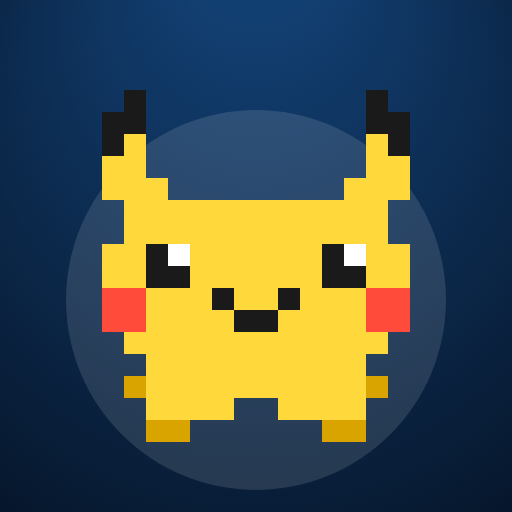
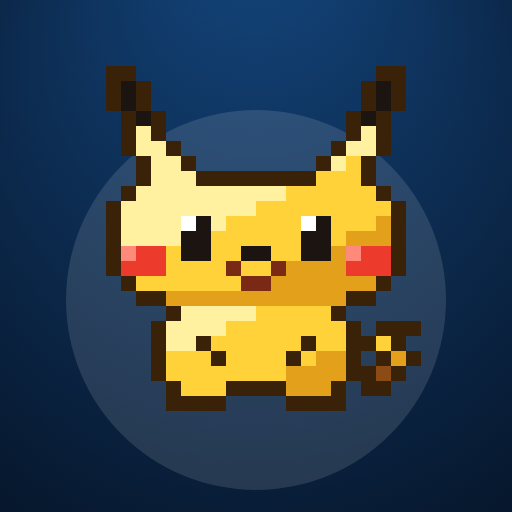
v3: 50 levels, new difficulty metric, new sprite, faster slides

Changed region(s): [[0.1875, 0.125, 0.8438, 0.875]]

diff --git a/index.html b/index.html
@@ -1,11 +1,11 @@
 <!doctype html><html lang="en"><head><meta charset="utf-8">
 <meta name="viewport" content="width=device-width,initial-scale=1,maximum-scale=1,user-scalable=no,viewport-fit=cover">
-<title>Glacier Run · 100 Ice Puzzles</title>
-<meta name="description" content="100 brutal sliding ice puzzles. Slide until you hit something. Beat par.">
-<meta property="og:title" content="Glacier Run · 100 Ice Puzzles"><meta property="og:description" content="Slide until you hit something. 100 ice-cave puzzles that get brutally hard. Free, in your browser.">
+<title>Glacier Run · 50 Ice Puzzles</title>
+<meta name="description" content="50 brutal sliding ice puzzles. Slide until you hit something. Beat par.">
+<meta property="og:title" content="Glacier Run · 50 Ice Puzzles"><meta property="og:description" content="Slide until you hit something. 50 ice-cave puzzles that get brutally hard. Free, in your browser.">
 <meta property="og:image" content="https://cyberkid2077.github.io/glacier-run/og.png?v=2"><meta property="og:image:width" content="1200"><meta property="og:image:height" content="630">
 <meta property="og:url" content="https://cyberkid2077.github.io/glacier-run/"><meta property="og:type" content="website">
-<meta name="twitter:card" content="summary_large_image"><meta name="twitter:title" content="Glacier Run · 100 Ice Puzzles"><meta name="twitter:description" content="Slide until you hit something. 100 ice-cave puzzles that get brutally hard."><meta name="twitter:image" content="https://cyberkid2077.github.io/glacier-run/og.png?v=2">
+<meta name="twitter:card" content="summary_large_image"><meta name="twitter:title" content="Glacier Run · 50 Ice Puzzles"><meta name="twitter:description" content="Slide until you hit something. 50 ice-cave puzzles that get brutally hard."><meta name="twitter:image" content="https://cyberkid2077.github.io/glacier-run/og.png?v=2">
 <link rel="icon" href="icon.png?v=2"><link rel="apple-touch-icon" href="icon.png?v=2"><meta name="theme-color" content="#06121f">
 <style>
 *{box-sizing:border-box;-webkit-tap-highlight-color:transparent;-webkit-user-select:none;user-select:none}
@@ -42,7 +42,7 @@ footer{margin-top:auto;padding-top:14px;text-align:center;font-size:11px;color:#
 </style></head><body>
 <canvas id="bg"></canvas>
 <div class="wrap" id="menu"><div style="display:flex;justify-content:flex-end"><button class="btn sq" id="mute1">🔊</button></div>
-<h1>GLACIER RUN</h1><div class="sub">100 ice puzzles · slide until you hit something</div>
+<h1>GLACIER RUN</h1><div class="sub">50 ice puzzles · slide until you hit something</div>
 <div class="sub" id="tot"></div><div id="grid"></div>
 <footer>Unofficial fan game. Pikachu and Pokémon are trademarks of Nintendo, Game Freak, and The Pokémon Company. Not affiliated or endorsed. Free and non-commercial.<br>No tracking, no ads. Progress is saved on this device.</footer></div>
 <div class="wrap hide" id="game">
@@ -96,7 +96,7 @@ function solve(lv,cap=150000){
   return null;}
 
 
-const LEVELS=[{"w":8,"h":9,"g":"..####..#..#.......#..#........#.##..#..#...#...#.##......#...#.E#..#..#","s":[7,2],"b":[],"par":11},{"w":8,"h":9,"g":".#....#....#......#..#..###.....#..#...#....#....E#...#....#...##..##...","s":[6,8],"b":[],"par":11},{"w":8,"h":9,"g":"#...#..#.#....#E#..#.#....#.#..#....#.#..#..#..##..#.#..#..........#..##","s":[4,8],"b":[],"par":12},{"w":8,"h":9,"g":"#..#...#.#......._..#...#..#..#.E.#....#.._.#...#.##.#..#.....##...#...#","s":[4,1],"b":[],"par":14},{"w":8,"h":9,"g":"..#....#.#...##E...#.#....##.#_#....##...##.._....#..#.##..##......#..##","s":[0,3],"b":[],"par":14},{"w":8,"h":9,"g":".#.E##..#..##.......#.##..#.#.....#._......##...#...#..#...#.#....#.#...","s":[7,4],"b":[],"par":14},{"w":8,"h":9,"g":"#......#....##....##....E#......#.##..##..#.#....#.....#...#..##........","s":[1,8],"b":[],"par":15},{"w":8,"h":9,"g":"#....#.#.._..#...##.......E#..#..#..#..#.##_.###...#..###.#.....#._.#._.","s":[1,7],"b":[],"par":15},{"w":9,"h":10,"g":"###.#.#..#...#....E..#.....##._.###_..###.#.....##...##.....##.....#......#.....##....#...","s":[5,5],"b":[],"par":15},{"w":9,"h":9,"g":"..##.._.##E...##...#####..#.#..#..#..#....#..._.##.#...##.....#.....#.....#...##.","s":[0,5],"b":[],"par":15},{"w":8,"h":9,"g":"..#.####..#....##....#.....#..#..#..#..#..##.#..#..##...#.E##.#....#.##.","s":[7,5],"b":[],"par":16},{"w":9,"h":10,"g":".....##....#......##.........#....###.#.#..#....#...#._#...#.....#.###..#.._.#.#.#..#..E##","s":[5,1],"b":[],"par":16},{"w":9,"h":9,"g":"....###..__.#E...#..........#.###_#...#..#..#...#..#.....##..#.#.._##...#.#..#..#","s":[3,4],"b":[],"par":16},{"w":9,"h":10,"g":".####..##.#..#...#.#.._.#_#...####..._###.##E......###...#..##..#...#.....#.....#..#...#.#","s":[1,6],"b":[],"par":16},{"w":8,"h":9,"g":"#...........#....._.......#....#...#.#..#.....#E.##...........#...#..###","s":[0,8],"b":[],"par":17},{"w":9,"h":10,"g":"......#...x.Ex.#......_...##....#.#.x.#.x.x.....#._.#....__....#.....x.....###..#..#.#....","s":[1,2],"b":[],"par":17},{"w":9,"h":9,"g":"x.#.x.....#.....##....x..#...E#.x__...#.#..#x..##.....#.###....#x._..#..#..#....#","s":[1,8],"b":[],"par":17},{"w":9,"h":10,"g":"x..#.#..x.#.....#x..##.._.x..##....#_.......#..##........##x#x.#..##..###..##.....#....##E","s":[0,6],"b":[],"par":17},{"w":9,"h":10,"g":"..##...##.....x.#..##..##.x._...._..#..#.Ex.#.#...x...x..._....##..........#..#....#.x####","s":[7,8],"b":[],"par":18},{"w":9,"h":10,"g":"#....x..#..#.#..##x.#..##.x....E#.....#...#x.....#.x._#.##....x....##..#..#.#..#...#...###","s":[0,5],"b":[],"par":18},{"w":9,"h":9,"g":"..x.##.#.##.x..#..#...x...#..#...#...#..x..x....#....#..........x...#E...###..#..","s":[7,8],"b":[],"par":18},{"w":8,"h":9,"g":"#..#.#....._...._..#..##....#.#.###.#....#E..#.##...#..#...#._##..##.#..","s":[4,8],"b":[],"par":19},{"w":9,"h":10,"g":"x..#...x##....#x.x...._..#.....#....#_##..x....##.__.......x#E#.......#.#.#.##.....#..##..","s":[1,7],"b":[],"par":19},{"w":10,"h":11,"g":".##....##..x..##.......#.....##.#_..#..........#x......#..#...x...#...#..#.####.#_...##..#x.E#....x...#x....#.","s":[8,6],"b":[],"par":19},{"w":10,"h":11,"g":"...##......x...#._.#......#...##......#.#.._#.#.#_...xx#.##......###..#_#...E#..........x#x._.x.#.###........#","s":[3,6],"b":[],"par":19},{"w":8,"h":9,"g":"...##....#..#.._.##........##..#.#..##.._..#_..#.#_#E..#....#....#...#..","s":[3,4],"b":[],"par":20},{"w":10,"h":10,"g":"..#E..###....##_#.##.#..#x##....#x.......#.......#xx.._x...............###...x#...#.#..#..#...#..#..","s":[0,1],"b":[],"par":20},{"w":10,"h":11,"g":".....#._...#....###.#...#x..E....#_........#.#._#.......#.##..#.......#x...x#....x.x.x..............#..###..#.","s":[3,6],"b":[],"par":20},{"w":10,"h":11,"g":"..#####...x._..###.#x.x..###.#.....###.x......##...#.x.##....#...E###.##.....#...#.x.._#.#.##....#....._......","s":[4,9],"b":[],"par":20},{"w":10,"h":10,"g":"#x...._..#..#..x.#x.x....##.##....#..x.#.#.._.....#...#........#..E..x#.........#.##.##_#....####...","s":[9,4],"b":[],"par":21},{"w":10,"h":11,"g":"..#.#........##..x.#.###.x............_.#.x..###...x..#E#..#.x....#.x......#.##.._..._...#....####...#._..#...","s":[7,10],"b":[],"par":21},{"w":10,"h":10,"g":".....##...#x#....#....###....#.x#x...x.......x......#...._...#.##_#_x..E._....#_..........##.....#..","s":[9,4],"b":[],"par":21},{"w":10,"h":11,"g":"..#......#...#..E....#.......x......#..##..x.x##.#....x##..#...#..._...##..#....#...x.....#...#.....x.##...##.","s":[8,8],"b":[],"par":22},{"w":10,"h":11,"g":"##....#..#.#.#._..x....._#...##.x..#.#.._.#.#......##..#####_##.....#._x##x........x#.x..#..#E#..#.....#.##...","s":[7,4],"b":[],"par":22},{"w":10,"h":10,"g":"..###...##.x._.#.#x#.v........_#_#...#.#.#..#..x......###.....#.<....#..#..E.x#...._.x..x#...##....#","s":[9,2],"b":[],"par":22},{"w":10,"h":10,"g":".x.#....#x...#.#>#..#x.....#.##...........#...x.....###..._._#...#.E##..##x....#_#..x..#.....#...#..","s":[6,8],"b":[],"par":23},{"w":11,"h":11,"g":".#.#.####E##...#..#..#x..#...#.._.#.x.#...#..x#.x#..##.v..<.#.#.#...#_x..<#.........#x.#..#.......v#..#.....#.##...#..#..","s":[1,1],"b":[],"par":23},{"w":11,"h":12,"g":"#..###.######.............###...#...#.#.#......x..x..#....#E.#x..x..#.#.#.#..#_.#....###....#...#.#x.##.>.#x...#...............###.#","s":[10,10],"b":[],"par":23},{"w":11,"h":11,"g":"..........#._..x..#...####..#x#..#.##.#...#..#.#....#._.x.....xE#.._#..##.........##.#...>#.x.#.#..#..#._....#...._.#.x..","s":[4,4],"b":[],"par":24},{"w":11,"h":12,"g":"#....#....#...#.#...>#...x#..v....#x_.#.x#.......##....#.#.x...#_...#.#.##....#..E..#.........#._#.#.x.##..#.....#.#.#.....x__..#...","s":[10,11],"b":[],"par":24},{"w":11,"h":12,"g":"..#^#...._...._#..#E#...#.#..#.#>.._...##....x#.##..###..#.x##_.#......##...####.>###x..#.........#..x#....#....#.x.x......#....#...","s":[5,8],"b":[],"par":25},{"w":11,"h":11,"g":".##.###.##x...#.##.#..###...#.x...#..vx...#_....#._x#._....._###....E.#..###...#..#...#<#.#..x..._.x....._.#.#...<.#.#...","s":[0,4],"b":[],"par":25},{"w":11,"h":12,"g":".#..#....#......x..#..x.........#.x..#...._....#....vx#.....#.#...#E....#...#>......##_#.#...x.........##.#.#....#......#x...#....#.","s":[10,5],"b":[],"par":25},{"w":11,"h":12,"g":".###..#...##...##..#.##....#..x#......>.#_...##..#.#...x.....>....#..#_..x.#..#E..###<.###.#.__x...#..........x.#......#.x.#.....###","s":[5,5],"b":[],"par":26},{"w":11,"h":11,"g":"x###.###E_......##.##...##.._###_#..##.#.#x_..###..x....#...#..v##...##.x..x#....#...###..#.......##.#..#.v....x.##..#...","s":[0,1],"b":[],"par":26},{"w":11,"h":11,"g":"#_..xx.#.^#..##..#_..#........##......x#_.........#.E.#...x.....>........._..>..x.._..x.#..........#...#...#<.##.#..#.#..","s":[5,10],"b":[],"par":26},{"w":11,"h":12,"g":".._............###..<.##._......#...#E.....#...<#.#.x....#....x...xx..#...#...#.....#..x......#.x#.#.....#..#.._.....#.....#..#..#..","s":[10,6],"b":[],"par":27},{"w":12,"h":13,"g":".#.....#...#....x...#......#....x.##...##.#..#x#...##.#.....#...v._._..#.....##........._#.........#......_.x.#....#.E...........x.....#..#....####..v.#.x#.","s":[10,10],"b":[],"par":27},{"w":12,"h":12,"g":"...#......x...._.#v......###..x.#x....#....#...#....#.....^...###.v........##..#.#..#_..#..##..#._x.#E.###..#.......#..#........x>.#..........##","s":[6,10],"b":[[8,0]],"par":27},{"w":12,"h":13,"g":"x#_.#x..#....#..#...#.......^.#.E..##...x#....x...#.#.......#....x.###...#..#...........#....##..#...._.............#.#_#....#....x...#.#.#....#.##..#...#.#","s":[9,6],"b":[[10,8]],"par":28},{"w":12,"h":12,"g":"#..##.....#...##..#.#.....x.#x..#.........#..x.#.##..........#.....x..#.._..##....#.#.#...#E.^.............x..x..#.....#...#...#...##.###.#...#.","s":[9,5],"b":[[8,4]],"par":28},{"w":12,"h":12,"g":"#.....#.....#x.#..^..#......#..#.>x......x.....#....###.v...x.#.E......#..#.#......#...x#..#.#..#.#..##._...._..#......#..#...##..#.#..#_.x#....","s":[10,11],"b":[[9,5]],"par":28},{"w":12,"h":13,"g":"....#..#..##.x...._x>...#..#.....x....#...#.#......_.........#...#......#........#...E#...##.#..##..^..##x.#...x.....x.#......_#.#..............#...##._._..","s":[11,1],"b":[[4,9]],"par":28},{"w":11,"h":11,"g":"..#......._#.........#.#.#.v#.#..##.....##.#.#.#.....#....v...##..x....#E.#x..#.##.x....v#.##..##..._..#.#......#.....#..","s":[7,4],"b":[],"par":29},{"w":12,"h":12,"g":"..x....#.........#._..#..##._.#...#.......##..#..#.#...........#.....#............###E.##.x........x._x.^......x.#..#..#......##x_......#.#....#","s":[3,3],"b":[[8,2]],"par":29},{"w":12,"h":12,"g":".....#.#..#......._...x......E...#..._...>........#x........................x.............#......._....x_.##......#..##.x.##..._..x..##.#.......","s":[11,1],"b":[[5,10]],"par":29},{"w":12,"h":13,"g":"....#.....##..x#..#x#_x....#.##..........x.#...#.x_..#..##.<..........#.._..>#....E.............#......._..>.......##x..#...#......^#....#....#....#....#.#.","s":[3,6],"b":[[10,8]],"par":29},{"w":12,"h":13,"g":"E#..#...##...#.x............##..###..#.>...#.##...#..#x....##...#..##...##....#....####._.#..<..._.x.._v.>._#..#...##x_.#..#...##...........#..#....._..x.x.","s":[9,11],"b":[[8,7]],"par":30},{"w":12,"h":12,"g":"..x..#.#.x.x.#.#.........#_.....#...#...#.##.#.##..#..#..#.....E.#.__.#....#....x.>..#..x.........#...x..#...#....#...#...#.<.##<....#.#####..#.","s":[9,5],"b":[[5,8]],"par":30},{"w":12,"h":13,"g":"<....#E#....#...#.....x...#.............#.#...#...#....##.x#.#..x.#..###......#................._#.........#.##..#....._.x...............#....x.##..#.#..##x","s":[10,0],"b":[[7,2]],"par":30},{"w":13,"h":14,"g":"...#...x#...#..#..#.#....##....#...#.......#.#.....x...#.#...#.......##....#...#.###...E.#..........###....##.^..#.#_.#_......#...#...........#._..#....#.#_.........x...xx#.x..#.#..#","s":[1,5],"b":[[6,9]],"par":31},{"w":13,"h":14,"g":"..xx##....###.#..#.........#..._.#..##.#....#...#....#.v.x...#...#.##x###.##E.#.##._.#.#...##.x##._...._.#....._#..#.##.##....#...#........#.#.##.###.....##...##..#....#....#.....x_.","s":[5,10],"b":[[8,6]],"par":31},{"w":13,"h":14,"g":"#.#.....x#...x....._...##..#...........>#...##_......#......#.x.x###...#............#...E....##....#....#x.#......#...#..##.....#......#.......#........_.#...##.x.....#.....#.....#..","s":[5,13],"b":[[9,3]],"par":31},{"w":13,"h":13,"g":"..#..^..x.#.........v#.............#.#..#x.E....##.._...#.#.............#...x.........#_...##.....x#.....#...._.#.....#....#..............##.......x#..#.x..##..#....#._.","s":[11,10],"b":[[3,5]],"par":32},{"w":13,"h":13,"g":"........#._.#._...##.....#..#..#......x##.#....._##..............x.#####.#.##...._..x^......#....__#.....#...##...x..#.x........#......#E.x..##...##.#####......>.#..#..#","s":[0,4],"b":[[9,6]],"par":32},{"w":13,"h":14,"g":"....#....#E##..#........#...#.#..#...#...##.....##..##..##..#....#....#............_.#....#....x......x#..#.....v....###.....x#.###...#....#.....##..#....#...#.....x...#..x........x.","s":[1,5],"b":[[5,9]],"par":32},{"w":13,"h":14,"g":"#.#.##.....#..x......._.x.>.###.#..#.......................E...##_.##<......#............>..>......._.#...#....##....x#..x#...##....x#..#..#.._##.....#.#.....#....x.................#","s":[12,6],"b":[[11,3]],"par":33},{"w":13,"h":14,"g":".#...###.#....#.#...#.....x......#x.#..#...#..#......x.####......_#..#....#.#...#..#..x..#.#..#...#..#..##..###....E..#..#...>.##..x..###....<.#.#...#.##...._<.x..#........#._..._..#","s":[9,3],"b":[[12,7],[8,10]],"par":33},{"w":13,"h":14,"g":"#.#.#....###.#...^.x#...###....#.#..#.#....##.##..#..#..#.#x..x....#......#.....###.......##...#.###.#.....#.#.#.....##x._>_...x##.###....#.<...x.........E...#...........##_..^.##...","s":[1,12],"b":[[8,12],[6,11]],"par":33},{"w":13,"h":13,"g":"....#..#...x..#...#..x#...#..#.#..#.##....###........#.##...##......#..._.#..#...........#.x..##......#..#........_#..__.#E#......#.._....x......#..##.x._....#...v.....#","s":[8,3],"b":[[8,7],[7,11]],"par":34},{"w":13,"h":14,"g":"..#x..>.##...#..##...x.......#..#......._........#........##.._.#.......E.x#.....#.^.#..#.#.#...^#.#.#_.##<#.###..x...#....#.._.......#_.###...#.#.#....#...#....x#....#......#..#..#.","s":[11,6],"b":[[7,3],[8,2]],"par":34},{"w":13,"h":14,"g":"###.###........#.#.....##.###...#.#_#.....x..#_#...#............#x#........#......_...#...##..##..#.......x....#.###.......#.......#_#x#...#E#....v.^..#.......#.<.x.x.#......._.#....","s":[9,6],"b":[[2,11],[6,6]],"par":34},{"w":14,"h":14,"g":".....x...#..#.......>.#.x...#.#...__x#...#.#.#<x##......._...##.....#....#......x...#.##._....#.x....##.._............^.#.....E.#.#.####......#....#...#.#...##.#.......##....#....#......_..#....#.","s":[3,1],"b":[[1,11],[8,5]],"par":34},{"w":14,"h":14,"g":"..#.#..#...#.......#..v.x...........###.#.#....##.x....##.......x.#.#......#.....#x#......#.._...#...E...##...>#...##_#.......#.x##.#.#._..............x.^...##.#......#_......#.#...#..###..##....#","s":[10,12],"b":[[0,0],[4,6]],"par":35},{"w":14,"h":14,"g":"...#....#.#.#..#....x##..>#..#.#._......#............x#.#.......#.................#..####.....v...#..........#......#<.......x....#...x....##.#.....#.....#....#...#.............#.E.#..x.#.#....#.#","s":[4,3],"b":[[6,10],[6,11]],"par":35},{"w":14,"h":15,"g":"#x.._..^..#...##....#...E...#....>#.__..#...#....#.##......#...#.x###._#x#......x....##.........._.#...>##.#..#x##.#.......#........##.....###...#..^...#..#.#....#.......#.....##....#...##.......##...#....##..#","s":[2,7],"b":[[11,12],[4,6]],"par":36},{"w":14,"h":14,"g":"..#.#.x......#.#.....#........_...#...x.v.#.##..#..x#..............._..##.#......#...#..##......#...#^#..#._#._x#..#<.#.....#..._..#...##..........#.#......<...E.#.#..x##............#..x#.#.#.#..#","s":[10,10],"b":[[6,5],[8,0]],"par":36},{"w":14,"h":14,"g":"#.#.#....#...#...v..#v......##E.................#._x...#.#.#........#..#.#.#.......#...#.....#........#.._.#.x...####....#._...#.x..##.##..........#..##...#.....#xx#.....#..#....#.#.....#x..##....","s":[10,13],"b":[[5,8],[2,4]],"par":36},{"w":14,"h":14,"g":"##._........x##x....###..#..###......#....#..#..._..x....#.#.#...#..##......^.x...x...##............#.....#_#..##...##..#........_.###....#E..#......x####..#.........#.._#.#.#.#.._....#.........#.","s":[4,2],"b":[[4,5],[4,9]],"par":37},{"w":14,"h":14,"g":"...._.....#...x..#......#..>.##.........x#.#........#.#....#.....#.#..^..........##............^......#E..#..#....#.#x..#...#_.x..#..###...._..x.#._.....#...###x.###...#..#...#...#._.#.#.#....#...","s":[11,8],"b":[[8,3],[3,8]],"par":37},{"w":14,"h":14,"g":"###...#...#..##...##..........##........#.._.#..##.#.#.E..._..#..##..##.#.#..#.._..#....<.#.^#.#x#..##.......<#..........#x......##..#..#.#x###..................#...#....##.#x...#....x....#x#.#.#.","s":[4,0],"b":[[13,2],[3,5]],"par":37},{"w":14,"h":15,"g":"...#.....#.........#_x.....x.x.#.#.._...#..........#.......#x..#..#.................^.####.###....#.x..#_.._...#.##.#_..#...^..#.....##..##..#x......#..#<##.#.#.##.#....#.##.#.##...#.#>#....#.#._.#.....E...#..#","s":[0,0],"b":[[6,2],[12,7]],"par":38},{"w":14,"h":15,"g":".#..........##.......#...##...#..#.#........##....##>..##vx...#..#....E#x##..#.........v..#..x._#x.#..##....#.##............#.....##....###..##....#.....x#.......###>.#.#..#...###..#.#.#._..#.....##.x...#.#....","s":[7,8],"b":[[10,8],[5,8]],"par":38},{"w":14,"h":14,"g":"...#..x##......_..#...##.#####.....#.#..#....#...#.....#.#........#.x.##.#.##.#.......#.x..........###....#...#..####...##..<..#........##..#..._.E##.......#......##x.#.#.#..#.....x#..#..##.##..x.","s":[0,11],"b":[[6,3],[2,10]],"par":38},{"w":15,"h":15,"g":"..#.x.....x.......#.....##....#...................#.#.......#....#.....x.##....._..#..#......#.#_....#..#E....#....#....#..#<.....#..#.#_##..#_...##.##..#.#..###.....#........._..#....#...._..#.##.#..x......x#.......##x.#.#..","s":[12,5],"b":[[14,1],[10,4]],"par":38},{"w":15,"h":15,"g":"...................#.#.#..#.........##.#....#x..#......#......<.....##.....#....#.##..#.xx#.........#x.......##.##>.##......_......#..#....###<...#.....x#..#...##>....#.....#.##..#.................._..x.#.#E_...###..#.._.....","s":[8,0],"b":[[2,6],[5,11],[14,14]],"par":38},{"w":15,"h":16,"g":"..#........#.#..##....#._..##..#...#.......#..##..E..#_#.....#.#.#.......#...#...#.###.......#......#..#...#.<##.##.#......v......#...#x.#...#.............####.vx...........#....#.....#.#....x##.##.#..........##._.x#...##..#_##.x.#x........","s":[7,7],"b":[[8,0],[5,0],[12,5]],"par":38},{"w":15,"h":16,"g":"......#..^.#..#...#...........x#......x.<..###x#..#.##....#...#......#.....x..x##....................#.....#.#......##....#....#_...............#.##.....#....#.#...#..##......##.#...#.#....###.....#...........x_#..<#.#..#.E.#.###.#.>.######","s":[1,7],"b":[[3,13],[3,8],[4,10]],"par":38},{"w":16,"h":17,"g":"...#x......#.#_.x#....#....^.....#....#.##.#.....................##..##.....#..#...#..###...#..#x....###..###....._....#._.....#....x#.##x.##...>...........<._.#...#E#.....##.........##..#..##............#x..#......#.....#..........#....._.#...........#.#...._...v.#......","s":[2,5],"b":[[2,16],[9,14],[6,16]],"par":38},{"w":15,"h":16,"g":".#..#.#....###.###..E.##.###...x..#_....##....#.................#.#..#..#..#..._#..#...#<..._#....#x.#....._#......#....x#..#.#.._.........###....#....#......#x....#>x.#.......>>.##...........x....#.......#......#........#..#....#.###.##...","s":[13,7],"b":[[7,4],[1,6],[3,15]],"par":40},{"w":15,"h":15,"g":"x.........##...#.###..#..................#....._....##.#.......#..x.#.>....._............#..#....##...#.#_#..............#.....E#...#...#..###<.#..#x....#..###.....#..x....#....#......>_..........x....x#...##.>._.##......##..","s":[2,0],"b":[[3,12],[13,10],[10,8]],"par":40},{"w":15,"h":15,"g":"....#.#..#..####.#...##...#....._..#..#.....#..#x.#.#..#........##....#......#..#......###..E..#v.#...................#.._.##.x#>##............v..#...#......#....#...#..##.........##...#...x..#_#....#..x..#....<...__......#..","s":[7,7],"b":[[12,4],[14,11],[8,11]],"par":41},{"w":15,"h":16,"g":"..#........_...#...._#....#...#x#......#...#.#....x..#.......#.........####....#.##......_.###..#.#...#...##.##...........x.._...#.....#...###......._x####......#.#..##...###.#...^.....#.....<#._#.#.##.xx....#...#......#..E.......#...#.##..","s":[7,15],"b":[[9,5],[13,8],[7,6]],"par":41},{"w":15,"h":15,"g":"..#..............##..#..#..##_x.....#..#......#..#.#..#....#..#.#.####.#x#............#.#.....#.###....#....E#.#...#..#..>...x.##.....#.#.#.#.............._#..##.#..............#x....#..#.x............_##.....#..##....x.#...#","s":[13,0],"b":[[4,12],[10,4],[1,13]],"par":41},{"w":15,"h":16,"g":"...x.#.............#....#........x....##...........^.......#.....##...#...#.#........v.#..#....#.#x...x#.##.._...<.........#..##..#.x#.......#..###....##..#..x..........#E#.........#...................#_......#.#..#..............#..^...#...","s":[5,1],"b":[[3,7],[11,7],[13,15]],"par":41},{"w":15,"h":15,"g":"_.x#..#....#...#..x..........#._........##.........#.x.._...##....#...#....##x#......................<v.x...#.#.....#..........####...#_...............#.......#E##..._..<........._..#..#.#...#.........#.#.....##.......^x#..##","s":[14,4],"b":[[4,7],[2,11],[2,7]],"par":42},{"w":15,"h":16,"g":".....#..#......#........#...#.....#.......##.........#..x#x.......#.#....#.#.##.#....x.#............#..#...#.#......#.#.......#...##.....#..........#...##..#.......#..x.E.#.....#.#...#....#.....x....#......##..#..x..v....#.........._.##..#.","s":[3,13],"b":[[3,1],[7,0],[5,12]],"par":42},{"w":16,"h":16,"g":".....v......_...>#..........##...x......#.#..#.._............_...........#..###......#_>..................E..#.....#.._...#.....#....#.#.##..#...##..x.......x.#..x#...#^........#.x.#.##.##._......##.x.#.#...#....#......#.#.##..........#..#...#.###.....##..","s":[9,7],"b":[[7,1],[9,11],[12,3]],"par":43},{"w":16,"h":16,"g":"................#...#...##<..##.##.#..E._..x#.#.....#...#...#.#.#.###..#_.......#.#.#.#...#.#....#..............##.#...#....#.#.##.##....#....x#....._.##....##.....x.#x..._#.#..#.....#..##....#..#..#v#.#.##..x..........##...#..x..###.......#....._..#..#...","s":[10,0],"b":[[4,0],[2,14],[6,1]],"par":43},{"w":16,"h":17,"g":".##.###...x..#...##...#....#.#..#..#.#_.#.....####...#...#........#x......_#..................#.................x..####..._..........#..x....._.....v...##.#....#..#....#E.....#...#..#........#.x......>........#....#.###.......##.....v........##.x..#.....#.#..#....._.._.##","s":[1,2],"b":[[13,2],[5,5],[8,14]],"par":44}];
+const LEVELS=[{"w":9,"h":10,"g":"..#...#.#....#.........#....#..#.....#.##...#....##...#.............#.......#.#.E#.#...#.#","s":[7,4],"b":[],"par":16},{"w":9,"h":10,"g":"..#.....#.....#.........#...#..#..#..#...#...#E##.#..#.....#..........#.....##...#...#...#","s":[6,5],"b":[],"par":16},{"w":9,"h":9,"g":"...#.....#..........#.#.E...##......#...#.......#.#.#..#......#.....#...###...#..","s":[7,3],"b":[],"par":16},{"w":11,"h":11,"g":"....#.......#.......E#......#......._...###.#.....#..#.##...#..._...#..#...#.......#...#.#...#..#..#.....##......#...#...","s":[7,6],"b":[],"par":20},{"w":11,"h":12,"g":"#...#....#....#..#.........#...............#._#..#.....#.#.##............####.#....#..#E#..#._..#.....#............#....#..#...##...","s":[1,6],"b":[],"par":20},{"w":11,"h":11,"g":"#.....#..#......#.#..._......#.........#...#....#.#....##.......#..#_#...........#.#....#...#.....#..##E....#.....#..#...","s":[2,7],"b":[],"par":20},{"w":11,"h":11,"g":".#...#..#.....##...#.....#..#...##.................#......#...E..#..#.##.#..#..#...#.#..#._..#..............#.......#...#","s":[3,8],"b":[],"par":20},{"w":10,"h":11,"g":"#.....##.....#..#...........#.#....._..#...#....#.E.#..#....#...#...._..##.........#.##...#...#..#.#..#.__._.#","s":[1,7],"b":[],"par":20},{"w":12,"h":13,"g":"...#...#....#..x...#.x..##......#...#..........#.........##...x..##..#...#....#x.._.##...E#...#......##.##....x....##..#.....x...###...........#....#..#....","s":[5,2],"b":[],"par":26},{"w":10,"h":11,"g":"....#.......#...##.##..#E#...#..._....#......#.x..#........xx..##.x.....x#._#..........#._#...#..x....#...._.#","s":[1,7],"b":[],"par":26},{"w":10,"h":11,"g":"#...x##......#.#...x##...xx#_#..#....#..#...#.#.........#.#.._.#..#.E....#._....#_#....x.....#x...............","s":[1,10],"b":[],"par":26},{"w":12,"h":13,"g":"....#...........x..#.##x#._....#....#..#.#....#.#.##..#x..._x.....#.......##.._....x....#.#.....#.#.#...#........._....#.x......E.#.#.............#.....##..","s":[1,4],"b":[],"par":26},{"w":12,"h":12,"g":"..#..x....#..#....._xxE...._...#....................#....##..##.#.x.#..#.....#.....##....#._..x.....#.#..###..#...#._.x..##.........#....#....##","s":[11,3],"b":[],"par":26},{"w":12,"h":13,"g":"..##.._.x....#......#....#.........#.............#....#.......#...##.#.###....#._x..._...x...###.....x#.#....##...#...E#...##.....x..#....##.._.#x.#......##","s":[0,3],"b":[],"par":26},{"w":12,"h":13,"g":"x.#...##....#........#....#...#..#.x...#....#.##.#...x.........x.......x.#....._......#....#......#..##E..#.#....#..x.##...#.#..#.....#......#...#..#......#","s":[7,4],"b":[],"par":26},{"w":11,"h":12,"g":"..#......x.........x.#._..#...#....#....x..........x.....#...#..#..#.x..#..#........#....#.#...#.............###.E_.x.#..##.....#...","s":[3,1],"b":[],"par":26},{"w":11,"h":12,"g":"...#.....#...#.......x#.....#.._.Ex.#....._....#..#...##..#.#..#......##.......x..#x..##.x.#..##.......#.#.._...#.......#.#x.###._..","s":[1,7],"b":[],"par":26},{"w":12,"h":13,"g":"...#x.#.x_.#.#...#...x..#..#..##....._....##......._....#...#.....#........##.##.._#.#.E...x..#.......#........###....x.....##..#....x....#....#..##...#....","s":[2,8],"b":[],"par":26},{"w":11,"h":11,"g":"......#...#.........#x#x#....#...._.x.#....#x#..##..#.#..#...#..#E_........#..#.....x....#..x....#....._.#...#..#.......#","s":[5,8],"b":[],"par":26},{"w":13,"h":14,"g":"......#....##...##...#......x.^....#...#......#.........#..x..#...#....#..#...#.x._v..#.#.#..#....#..x.._###...__.....^..#.....#.#..#....#.##.E#.#.....x..##.#..........#...#....#....","s":[10,5],"b":[],"par":30},{"w":13,"h":13,"g":"..#>......#........#......^#E......#.##..._.......#.#.#.#......x...x.....^...#.x......xx#......##_#................#.#.......#...#.#..#.._..#....#..........#....#...#...","s":[3,1],"b":[],"par":30},{"w":11,"h":12,"g":".....#..#...##x##.......#..........x...##......#..#x.#>.._._#.##...v...#....###..>.._.#...#..#.#........#..##..#..._x....E##......x.","s":[6,6],"b":[],"par":30},{"w":13,"h":14,"g":".........x.....x.......#...#.#....#.###.>.#....E.#....###x._.v...#..#.....#....#..##.....##..#..x.#..#.......#..#._......#...#...#<..#..#...........#....#..x........#..##...#....#...","s":[2,0],"b":[],"par":30},{"w":13,"h":13,"g":".##......#....x......#.......#.#.#....##.#..#....#..#........._......##.....#.##....x.>#.##....#.#_.#_...#......##......#.x......#.....<..#......#..#E#.#.....#......x.x#","s":[4,6],"b":[],"par":30},{"w":12,"h":13,"g":"....#...#.....x...#....##....#.#.x......v#............##E#..##.....##.#.....#.x#..##.#.#.......##........#...#..#..#......x...#...###........v..x....##.....","s":[8,11],"b":[],"par":30},{"w":13,"h":13,"g":".^.......#.........x#._...#......_#..x....#........###....#<.##..#.#......#.......##.......x..#.......#.#.#..##E#...##x..#..#..#..#.....##.x........#...#......#....#..#.","s":[6,9],"b":[],"par":29},{"w":11,"h":12,"g":"...#..#.#...#...^#.....###.##.........#...x#.#.......##<#.....##...E..x.............._...v....x#...#...#...#.x.#..x.#._.......###...","s":[4,1],"b":[],"par":30},{"w":11,"h":12,"g":"........#......#......#...v>.##....x....#..#.#..#..#....E..#.##.#.x#..#...#x..#....x.....vx...#....##....#...#...##..#...#..#...#...","s":[2,2],"b":[],"par":30},{"w":14,"h":15,"g":".#....#..#........#...#....#.##.....#.###....#...#._.....#.v......#......#...##.#....x...#.#.x.#..#............x..##.......E...#.........#.x...##x_.#.#.._#....#..........#...###.#..#......#.#......#..#...#..#..","s":[13,4],"b":[],"par":30},{"w":13,"h":14,"g":"......#...#.....E#..#......#x#.vx...x#....#...##.#..##.v...x.#...#....##..#....#.#.##.....#.......####....#.x._......##.<...##....#.^.#._.....#..#.............._...........#..#....#.","s":[3,10],"b":[],"par":30},{"w":13,"h":13,"g":".........#..##.v_.......x.#...x#.........#.#..#...#_.#....x.##.#......#.#..........#...x.###.....#..#........x......##>#._.#.##......#..#...#...###.#.._..#..^.E##.......","s":[5,4],"b":[],"par":30},{"w":14,"h":14,"g":"#..^_.#..#.#...#.........##..#.#..E....#...#.#.##...>.......#.....#..#..#......#.#..#.#...........#....#......##...#......x......##.#..#.....##x..#.#.x#..._..#.._.....##.........x_.....#...##x..#.","s":[11,3],"b":[],"par":30},{"w":11,"h":12,"g":"##...#.......#...#.#.#...........#.._x.#......#._..####.....#....#...x#...#.##._#..#..x....#...^.....#..#E.....##....._x...#x..#....","s":[9,0],"b":[],"par":30},{"w":12,"h":12,"g":"...#...#...#.#.^..#.........#.##..#._.#...##..##...#.....#..xx.....#.#..#>....#.<#.E......#..#_#.x.#.>.#.......#_.x......_.......#...x#......#.#","s":[9,1],"b":[],"par":30},{"w":14,"h":15,"g":".x##...###..#.....#...#.#.......#...#.....##._..........##.........#...#...x#.....................#..#.........##......_..#..E...x..#..##..>......##...#.x....#.####....#..##.#...#...._#....#..#..#....#...x#....","s":[13,4],"b":[],"par":30},{"w":13,"h":14,"g":".#.#.#....#.......##.....##......#<#...#........###..<..#.#.##.._.#..#.......x...#....._...#.#...>...#x.#...#.__.#..#...>...#.#........#....x..E#..x.....#..#....#.x#...##.....#..#...","s":[2,4],"b":[],"par":30},{"w":11,"h":12,"g":"....#.#....#..._.x#.....##..###.#...#..x#....#..#......#.......#.........xE.##.._..#.#..#...<#.__...x#...#<#.#...#.....#......#....x","s":[9,7],"b":[],"par":30},{"w":13,"h":14,"g":".#....#..#......_##.#.._.x#..........v...#^#..###.#_...x#.....##x...x...........#......###.#.#.#..#...#.........##...#...##.#..#..............##....x.....#....#.#E#.................#","s":[8,11],"b":[],"par":30},{"w":12,"h":13,"g":"#..#......#..#....##.........#.......##...#..#.##.....#.##....##...........#.#..#....#.......#.#.#.....xx^..#.....x..#.E.x#.#....#_#..._.#.._......#....#..x","s":[8,2],"b":[],"par":30},{"w":13,"h":13,"g":"..#.##.....#x....._....#....x...#........E....#..............#.#.._......x#.......#..#..#......#...x.#.#........#...#...#.............................#...#.....x......#.","s":[0,2],"b":[[0,1],[4,3]],"par":32},{"w":14,"h":15,"g":".#.x#.#...#.............#.........................#............#.._....#....._...##..E.......#................#....x...#_.......#..##..#.._....x.#....##.....#.#.....#..........#..#...x...................x.....#","s":[5,12],"b":[[4,3],[11,2]],"par":30},{"w":13,"h":14,"g":"E##...#..#.......#........#........_...#.#...x.......x..#._.#...#...._....#....#.....^.##......##.#.^#.##x...#...#......###..#......#.x#....x#....#....#..##.###.._..#...>...#........","s":[0,9],"b":[[12,13],[6,2]],"par":33},{"w":12,"h":13,"g":"#........#.......x......x....#.......#.##...#...#..#.....#.....#..#..#...._._#...##...x...x.#.##.......##..^<#....._....x......#......._...#.##.....#.##E#..","s":[11,3],"b":[[0,8],[3,10]],"par":30},{"w":15,"h":16,"g":".#.........##...#.x...#.....##.#.....##..#..#.x.............#.#....#..<#_....^..............##..............#.....#..#...x#..#..xx#.#..#._.#E....##......#.#............#.............#....##........_........#.......##........##..#..........#","s":[2,0],"b":[[9,4],[7,10]],"par":34},{"w":12,"h":12,"g":".......#..#..........#..xx.....#..E.#......x.##..#......._............#....#x..##.#.............#..#....._#.....#._............#.>#....#._....#.","s":[2,7],"b":[[6,8],[2,2]],"par":30},{"w":13,"h":13,"g":".#.<..._.##............x..#..#.#....x....#..E#.......#.........##.#........#...._..#...#..x......#..#.....#...#.....#..#.x...#....x.#........##.>.#.#.#......#.......#.#.","s":[3,12],"b":[[3,7],[8,1]],"par":34},{"w":13,"h":14,"g":"#.....x....###..._....._...^......#...#.#..#....##......._#.#..#.<#........#.....#.#x#........#.E.#....._.##....x.#.##.......#........#....x......#....#....##>#......#.#.....#x..#...","s":[9,6],"b":[[6,1],[1,13]],"par":34},{"w":13,"h":13,"g":"...#..###..........##..##....<.#....#.......E#.........x..x..............x..._...._......^.....##.x......#...>.._..##.#.#_..#.#...x.....#....#..###...................##.","s":[9,3],"b":[[0,9],[6,12]],"par":34},{"w":13,"h":14,"g":"....#....#x....#x......x.....#................#....#..#x..#..........#...#.#.#.#.#_..#......#.#.......#....#..x..........#....#.....####...........###...#........E.#>._........_.#...","s":[10,12],"b":[[9,10],[0,12]],"par":34},{"w":15,"h":15,"g":"..#....#........#.......x...x#.....#..#.#....>.#.....#.........##..x#..#...........#..#.........._......####.....#..........._.....#.....#..........#.#.#.x......#...#...#.#.#..#...........#..##.x..E..##_.....##...............","s":[11,9],"b":[[10,9],[14,5]],"par":34}];
 const BIOMES=[
  {n:'DAWN ICE',bg:['#3b2a55','#0d1b33'],i1:'#fff4f0',i2:'#c9e6ff',ln:'#ffd9e6',r1:'#5a4a78',r2:'#8c7fb0',cap:'#fff',glow:'#ffb3c8',snow:'#ffe8f0',btn:'linear-gradient(160deg,#ffe9f1,#ffc0d4)'},
  {n:'DEEP BLUE CAVE',bg:['#0b2a52','#030b18'],i1:'#d6f1ff',i2:'#7fc4ee',ln:'#a9dcf7',r1:'#1d3a5c',r2:'#3c6690',cap:'#d8f3ff',glow:'#4fb8ff',snow:'#cfefff',btn:'linear-gradient(160deg,#d6f1ff,#7fc4ee)'},
@@ -104,7 +104,7 @@ const BIOMES=[
  {n:'VOLCANIC ICE',bg:['#4a1408','#120606'],i1:'#ffeee0',i2:'#b9d6e6',ln:'#ffc9a8',r1:'#2a1c1c',r2:'#5a3a32',cap:'#ff8a4a',glow:'#ff6a2a',snow:'#ffb48a',btn:'linear-gradient(160deg,#ffe0cc,#ff9f6e)'},
  {n:'CRYSTAL PALACE',bg:['#3a1e6a','#0a0820'],i1:'#fbf4ff',i2:'#cdb8ff',ln:'#e9dcff',r1:'#4b2f8a',r2:'#9a7cff',cap:'#fff',glow:'#c79bff',snow:'#f1e6ff',btn:'linear-gradient(160deg,#f6eeff,#c4a8ff)'}];
 const TIPS={_:'Snow patches stop your slide — use them as brakes.',x:'Cracked ice breaks once you slide off it. Holes block your path.',a:'Arrow tiles redirect your slide in their direction.',B:'Bump a boulder to push it. It slides until it hits something and fills holes.'};
-const KEY='glacier-run-v2';let save=JSON.parse(localStorage.getItem(KEY)||'{"stars":{},"tips":{}}');save.mute=!!save.mute;
+const KEY='glacier-run-v3';let save=JSON.parse(localStorage.getItem(KEY)||'{"stars":{},"tips":{}}');save.mute=!!save.mute;
 const persist=()=>localStorage.setItem(KEY,JSON.stringify(save));
 const $=id=>document.getElementById(id);const cv=$('cv'),cx=cv.getContext('2d'),bg=$('bg'),bx=bg.getContext('2d');
 let L,li=0,st,hist,moves,anim=null,busy=false,T=32,BI=BIOMES[1],fx=[],trail=[],shake=0,squash=null,facing='D',tex=null;
@@ -122,15 +122,9 @@ const SFX={slide:d=>noise(Math.min(.9,d/1000+.1),2400,900,.05),bump:()=>tone(180
 function setMute(){const t=save.mute?'🔇':'🔊';$('mute1').textContent=t;$('mute2').textContent=t}
 $('mute1').onclick=$('mute2').onclick=()=>{save.mute=!save.mute;persist();setMute()};setMute();
 // ---- pixel pikachu (original) ----
-const SPR={D:[
-"..K..........K..",".KK..........KK.",".KY..........YK.",".YY..........YY.",".YYY........YYY.","..YYYYYYYYYYYY..","..YYYYYYYYYYYY..",".YYKWYYYYYYKWYY.",
-".YYKKYYYYYYKKYY.",".RRYYYKYYKYYYRR.",".RRYYYYKKYYYYRR.","..YYYYYYYYYYYY..","...YYYYYYYYYY...","..yYYYYYYYYYYy..","...YYYY..YYYY...","...yy......yy..."],
-U:["..K..........K..",".KK..........KK.",".KY..........YK.",".YY..........YY.",".YYY........YYY.","..YYYYYYYYYYYY..","..YYYYYYYYYYYY..",".YYYYYYYYYYYYYYB",
-".YYYYYYYYYYYYYBB",".YYYYYYYYYYYYBB.","..YBBBYYYYBBBY..","..YYYYYYYYYYYY..","...YYYYYYYYYY...","..yYYYYYYYYYYy..","...YYYY..YYYY...","...yy......yy..."],
-R:["..........KK....",".........KYK....","........KYY.....",".......YYY......",".....YYYYYYY....","....YYYYYYYYY...","....YYYYYKWYY...",".B..YYYYYKKYYK..",
-"BBY.YYYYYYYRRY..",".BYYYYYYYYRRY...","..YYYYYYYYYYY...","...YYYYYYYYY....","...YYYYYYYYY....","...yYYYYYYYYy...","....YYY..YYY....","....yy....yy...."]};
-const PC={K:'#1a1a1a',Y:'#ffd93b',y:'#d9a400',R:'#ff4b3a',W:'#ffffff',B:'#9a5a12'};
-const sprC={};for(const k in SPR){const c=document.createElement('canvas');c.width=c.height=16;const g=c.getContext('2d');SPR[k].forEach((r,y)=>[...r].forEach((ch,x)=>{if(PC[ch]){g.fillStyle=PC[ch];g.fillRect(x,y,1,1)}}));sprC[k]=c}
+const SPR={"D":["..OO................OO..","..OKO..............OKO..","..OKO..............OKO..","...OKO............OKO...","...OLO............OLO...","...OLLO..........OLLO...","....OLLO........OLYO....","....OLLLOOOOOOOOYYYO....","...OLLLLLLLLLLYYYYYYO...","..OLLLLLLLLLYYYYYYYYYO..","..OLLLLWKLYYYYYWKYYYSO..","..OLLLLKKYYYYYYKKYSSSO..","..OPRRYKKYYKKYYKKSPRRO..","..ORRRYYYYMYYMSSSSRRRO..","...OYYYYYYYMMSSSSSSSO...","....OOSSSSSSSSSSSSOO....","......OLLLLLYYYYYO......",".....OLLLLYYYYYYYYO.OOO.",".....OLLOYYYYYYOYYOOYO..",".....OYYYOYYYYOYSSO.OSO.",".....OYYYYYYYYSSSSOOBO..","......OYYYOOOOSSSO.OO...","......OOOO....OOOO......","........................"],"U":["..OO................OO..","..OKO..............OKO..","..OKO..............OKO..","...OKO............OKO...","...OLO............OLO...","...OLLO..........OLLO...","....OLLO........OLYO....","....OLLLOOOOOOOOYYYO....","...OLLLLLLLLLLYYYYYYO...","..OLLLLLLLLLYYYYYYYYYO..","..OLLLLLLLYYYYYYYYYYSO..","..OLLLLLYYYYYYYYYYSSSO..","..OLLLYYYYYYYYYYSSSSSO..","..OLYYYYYYYYYYSSSSSSSO..","...OYYYYYYYYSSSSSSSSO...","....OOSSSSSSSSSSSSOO....","......OLLLLLYYYYYO......",".....OLLLLYYYYYYYYO.OOO.",".....OLBBBBBBBBBBYOOYO..",".....OYYYYYYYYYYSSO.OSO.",".....OYYBBBBBBBBSSOOBO..","......OYYYOOOOSSSO.OO...","......OOOO....OOOO......","........................"],"R":["........OO..............","........OKO.............",".........OKO..OO........",".........OKO.OKO........","..........OLOLLO........","..........OLLLLLO.......",".OOO.....OLLLLLLLOOO....","..OYO...OLLLLLLLLLLYO...",".OOYSO..OLLLLLLLLWKYYO..","...OYO..OLLLLLLYYKKYYYO.","..OOYYO.OLLLLYYYYKKYYKO.","....OSO.OLLYYYYPRRYYYSO.","....OYYOOYYYYYYRRRYMMO..",".....OBO.OYYYYYYYSSSO...","......OBO.OYYYYSSSSO....",".......OBOYYYSSSSSO.....","........OLLLLLLYYYO.....","........OLLLLYYYOOO.....","........OLLYYYYYYYO.....","........OYYYYYYYYYO.....",".........OYYOOOYYO......",".........OOO...OOO......","........................","........................"]};
+const PC={"O":"#3a2208","Y":"#ffd23a","L":"#fff1a0","S":"#e3a01a","K":"#1c1410","W":"#ffffff","R":"#ec3b2d","P":"#ff8a7a","M":"#7a2a14","B":"#8a4b14"};
+const sprC={};for(const k in SPR){const c=document.createElement('canvas');c.width=c.height=24;const g=c.getContext('2d');SPR[k].forEach((r,y)=>[...r].forEach((ch,x)=>{if(PC[ch]){g.fillStyle=PC[ch];g.fillRect(x,y,1,1)}}));sprC[k]=c}
 function pika(X,Y,dir,lean,sq){const c=sprC[dir=='L'?'R':dir];cx.save();cx.translate(X+T/2,Y+T*.95);
  cx.fillStyle='rgba(0,20,40,.25)';cx.beginPath();cx.ellipse(0,-T*.04,T*.32,T*.08,0,0,7);cx.fill();
  if(dir=='L')cx.scale(-1,1);cx.rotate(lean);const sx=sq?1+sq*.25:1,sy=sq?1-sq*.25:1;cx.scale(sx,sy);cx.imageSmoothingEnabled=false;const s=T*.92;cx.drawImage(c,-s/2,-s,s,s);cx.restore()}
@@ -150,13 +144,13 @@ function makeTex(){const s=64,mk=f=>{const c=document.createElement('canvas');c.
   g.fillStyle=BI.glow;g.globalAlpha=.55;g.beginPath();g.moveTo(.66*s,.95*s);g.lineTo(.74*s,.5*s);g.lineTo(.84*s,.95*s);g.fill();g.globalAlpha=1});
  const snow=mk(g=>{g.fillStyle='#fbfdff';g.fillRect(0,0,s,s);for(let k=0;k<30;k++){g.fillStyle=`rgba(150,180,210,${r()*.3})`;g.beginPath();g.arc(r()*s,r()*s,1+r()*3,0,7);g.fill()}g.strokeStyle='rgba(120,160,200,.3)';g.strokeRect(.5,.5,s-1,s-1)});
  tex={ice:[ice(0),ice(1),ice(2)],rock,snow}}
-function menu(){document.body.classList.remove('play');$('game').classList.add('hide');$('menu').classList.remove('hide');$('win').classList.remove('on');BI=BIOMES[Math.floor(li/20)];
- const g=$('grid');g.innerHTML='';let tot=0;for(let b=0;b<5;b++){const h=document.createElement('div');h.className='biome';h.textContent=`${b*20+1}–${b*20+20} · ${BIOMES[b].n}`;g.appendChild(h);const gr=document.createElement('div');gr.className='grid';g.appendChild(gr);
- for(let i=b*20;i<b*20+20;i++){const s=save.stars[i]||0;tot+=s;const e=document.createElement('button');e.className='lv'+(unlocked(i)?'':' lock');e.style.background=BIOMES[b].btn;
-  e.innerHTML=unlocked(i)?`${i+1}<small>${'★'.repeat(s)}</small>`:'🔒';if(unlocked(i))e.onclick=()=>start(i);e.dataset.i=i;gr.appendChild(e)}}$('tot').textContent=`★ ${tot} / 300`}
+function menu(){document.body.classList.remove('play');$('game').classList.add('hide');$('menu').classList.remove('hide');$('win').classList.remove('on');BI=BIOMES[Math.floor(li/10)];
+ const g=$('grid');g.innerHTML='';let tot=0;for(let b=0;b<5;b++){const B0=b*10;const h=document.createElement('div');h.className='biome';h.textContent=`${B0+1}–${B0+10} · ${BIOMES[b].n}`;g.appendChild(h);const gr=document.createElement('div');gr.className='grid';g.appendChild(gr);
+ for(let i=B0;i<B0+10;i++){const s=save.stars[i]||0;tot+=s;const e=document.createElement('button');e.className='lv'+(unlocked(i)?'':' lock');e.style.background=BIOMES[b].btn;
+  e.innerHTML=unlocked(i)?`${i+1}<small>${'★'.repeat(s)}</small>`:'🔒';if(unlocked(i))e.onclick=()=>start(i);e.dataset.i=i;gr.appendChild(e)}}$('tot').textContent=`★ ${tot} / 150`}
 function mechs(l){const m=new Set();for(const c of l.g){if(c=='_')m.add('_');if(c=='x')m.add('x');if('<>^v'.includes(c))m.add('a')}if(l.b.length)m.add('B');return m}
-function start(i){li=i;L=LEVELS[i];st=initState(L);hist=[];moves=0;anim=null;busy=false;fx=[];trail=[];facing='D';squash=null;
- const nb=BIOMES[Math.floor(i/20)];if(nb!==BI||!tex){BI=nb;makeTex()}
+function start(i){Q=[];li=i;L=LEVELS[i];st=initState(L);hist=[];moves=0;anim=null;busy=false;fx=[];trail=[];facing='D';squash=null;
+ const nb=BIOMES[Math.floor(i/10)];if(nb!==BI||!tex){BI=nb;makeTex()}
  document.body.classList.add('play');$('menu').classList.add('hide');$('game').classList.remove('hide');$('win').classList.remove('on');
  $('ln').textContent=i+1;$('par').textContent=L.par;$('mv').textContent=0;
  const m=mechs(L);let tip='';for(const k of ['_','x','a','B'])if(m.has(k)&&!save.tips[k]){tip=TIPS[k];save.tips[k]=1;persist()}
@@ -185,9 +179,9 @@ function draw(t){if(!tex)return;const g=L.g;cx.save();cx.clearRect(0,0,L.w*T,L.h
  if(squash){const e=(t-squash.t)/260;if(e>=1)squash=null;else{sq=Math.sin(e*Math.PI)*(1-e)*1.2;if(squash.b){const o=Math.sin(e*Math.PI)*.18*(1-e);px+=squash.dx*o;py+=squash.dy*o}}}
  pika(px*T,py*T,facing,lean,sq);
  for(const f of fx){f.x+=f.vx;f.y+=f.vy;f.vy+=.08;f.l--;cx.globalAlpha=Math.max(0,f.l/f.L);cx.fillStyle=f.c;cx.fillRect(f.x-f.s/2,f.y-f.s/2,f.s,f.s)}cx.globalAlpha=1;fx=fx.filter(f=>f.l>0);cx.restore()}
-function move(d){if(busy||$('win').classList.contains('on'))return;const r=step(L,st,d);if(!r){facing=d;squash={t:performance.now(),b:1,dx:DIRS[d][0],dy:DIRS[d][1]};SFX.bump();return}
+let Q=[];function move(d){if(busy){if(Q.length<3)Q.push(d);return}if($('win').classList.contains('on'))return;const r=step(L,st,d);if(!r){facing=d;squash={t:performance.now(),b:1,dx:DIRS[d][0],dy:DIRS[d][1]};SFX.bump();return}
  busy=true;hist.push(st);moves++;$('mv').textContent=moves;facing=d;const prevK=st.k;
- const segs=r.path,n=segs.length-1,dur=n?Math.max(110,n*60):0,bp=r.push?r.push.path:null,bdur=bp?Math.max(90,(bp.length-1)*60):0,t0=performance.now(),total=dur+bdur;
+ const segs=r.path,n=segs.length-1,dur=n?Math.max(70,n*36):0,bp=r.push?r.push.path:null,bdur=bp?Math.max(60,(bp.length-1)*36):0,t0=performance.now(),total=dur+bdur;
  if(n)SFX.slide(dur);const cracked=[...r.s.k].filter(k=>!prevK.has(k));let cdone=new Set(),thudded=false,last=-1;
  (function f(now){const e=Math.max(0,now-t0),k=dur?Math.min(1,e/dur):1,q=k*n,a=Math.floor(q),fr=q-a,A=segs[Math.min(a,n)],B=segs[Math.min(a+1,n)];
   if(B[0]!=A[0]||B[1]!=A[1])facing=B[0]>A[0]?'R':B[0]<A[0]?'L':B[1]<A[1]?'U':'D';
@@ -198,15 +192,15 @@ function move(d){if(busy||$('win').classList.contains('on'))return;const r=step(
    if(bp&&!thudded){thudded=true;shake=T*.25;SFX.thud();const z=bp[bp.length-1];burst(z[0]*T+T/2,z[1]*T+T*.8,12,'#d9e8f5',2.5,28,T/9)}
    const [ex,ey]=st.p;const nx=ex+dd[0],ny=ey+dd[1];const tt=(nx<0||ny<0||nx>=L.w||ny>=L.h)?'#':L.g[ny*L.w+nx];
    squash={t:performance.now(),b:!r.win&&(tt=='#'||st.k.has(ny*L.w+nx)),dx:dd[0],dy:dd[1]};if(squash.b&&!bp)SFX.bump();
-   if(r.win)win()}})(t0)}
+   if(r.win){Q=[];win()}else if(Q.length)setTimeout(()=>move(Q.shift()),0)}})(t0)}
 function win(){const s=starsFor(moves,L.par);save.stars[li]=Math.max(save.stars[li]||0,s);persist();SFX.win();const [ex,ey]=st.p;
  for(let k=0;k<4;k++)setTimeout(()=>{burst(ex*T+T/2,ey*T+T/2,22,['#fff7a8','#ffffff','#9ff3ff',BI.glow][k],4.5,50,T/7)},k*90);
  setTimeout(()=>{$('wst').innerHTML=[0,1,2].map(i=>`<span class="${i<s?'on':''}" style="animation-delay:${i*.15}s">★</span>`).join('');
- $('wtx').textContent=`${moves} moves · par ${L.par}`+(s<3?' · match par for ★★★':'');$('wnext').classList.toggle('hide',li>=99);$('win').classList.add('on')},650)}
+ $('wtx').textContent=`${moves} moves · par ${L.par}`+(s<3?' · match par for ★★★':'');$('wnext').classList.toggle('hide',li>=LEVELS.length-1);$('win').classList.add('on')},380)}
 function undo(){if(busy||!hist.length)return;st=hist.pop();moves--;$('mv').textContent=moves;trail=[]}
 $('undo').onclick=undo;$('rst').onclick=()=>start(li);$('back').onclick=menu;$('wre').onclick=()=>start(li);$('wmenu').onclick=menu;$('wnext').onclick=()=>start(li+1);
 addEventListener('keydown',e=>{if($('game').classList.contains('hide'))return;const m={ArrowUp:'U',ArrowDown:'D',ArrowLeft:'L',ArrowRight:'R',w:'U',s:'D',a:'L',d:'R',W:'U',S:'D',A:'L',D:'R'}[e.key];
- if($('win').classList.contains('on')){if(e.key=='Enter'&&li<99)start(li+1);return}if(m){e.preventDefault();move(m)}else if(e.key=='u'||e.key=='z')undo();else if(e.key=='r')start(li)});
+ if($('win').classList.contains('on')){if(e.key=='Enter'&&li<LEVELS.length-1)start(li+1);return}if(m){e.preventDefault();move(m)}else if(e.key=='u'||e.key=='z')undo();else if(e.key=='r')start(li)});
 let sx=null,sy=null;const gm=$('game');
 gm.addEventListener('touchstart',e=>{if(e.target.closest('button'))return;const t=e.touches[0];sx=t.clientX;sy=t.clientY;e.preventDefault()},{passive:false});
 gm.addEventListener('touchmove',e=>e.preventDefault(),{passive:false});
